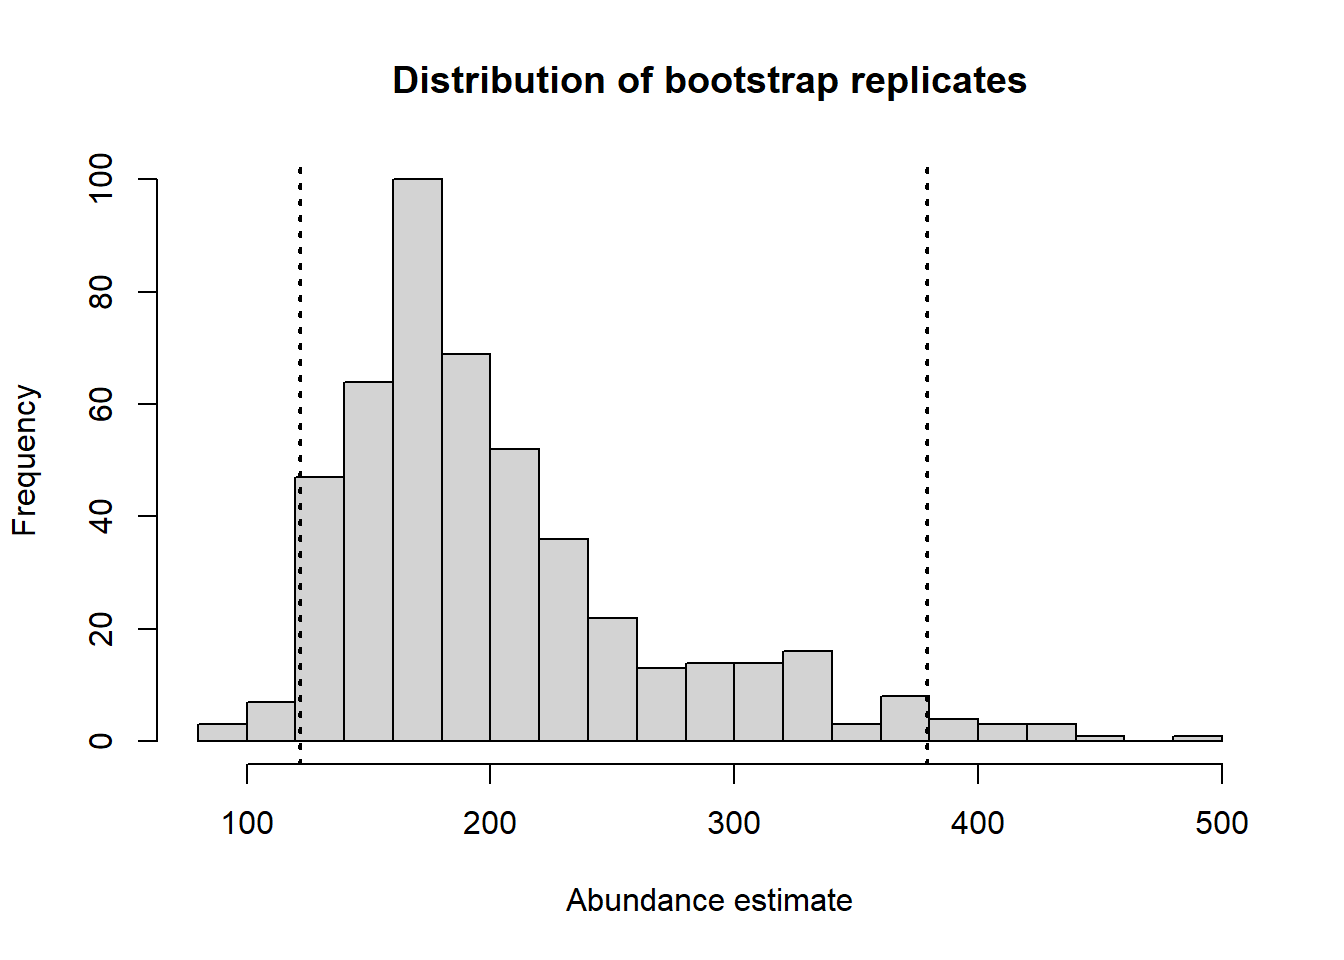
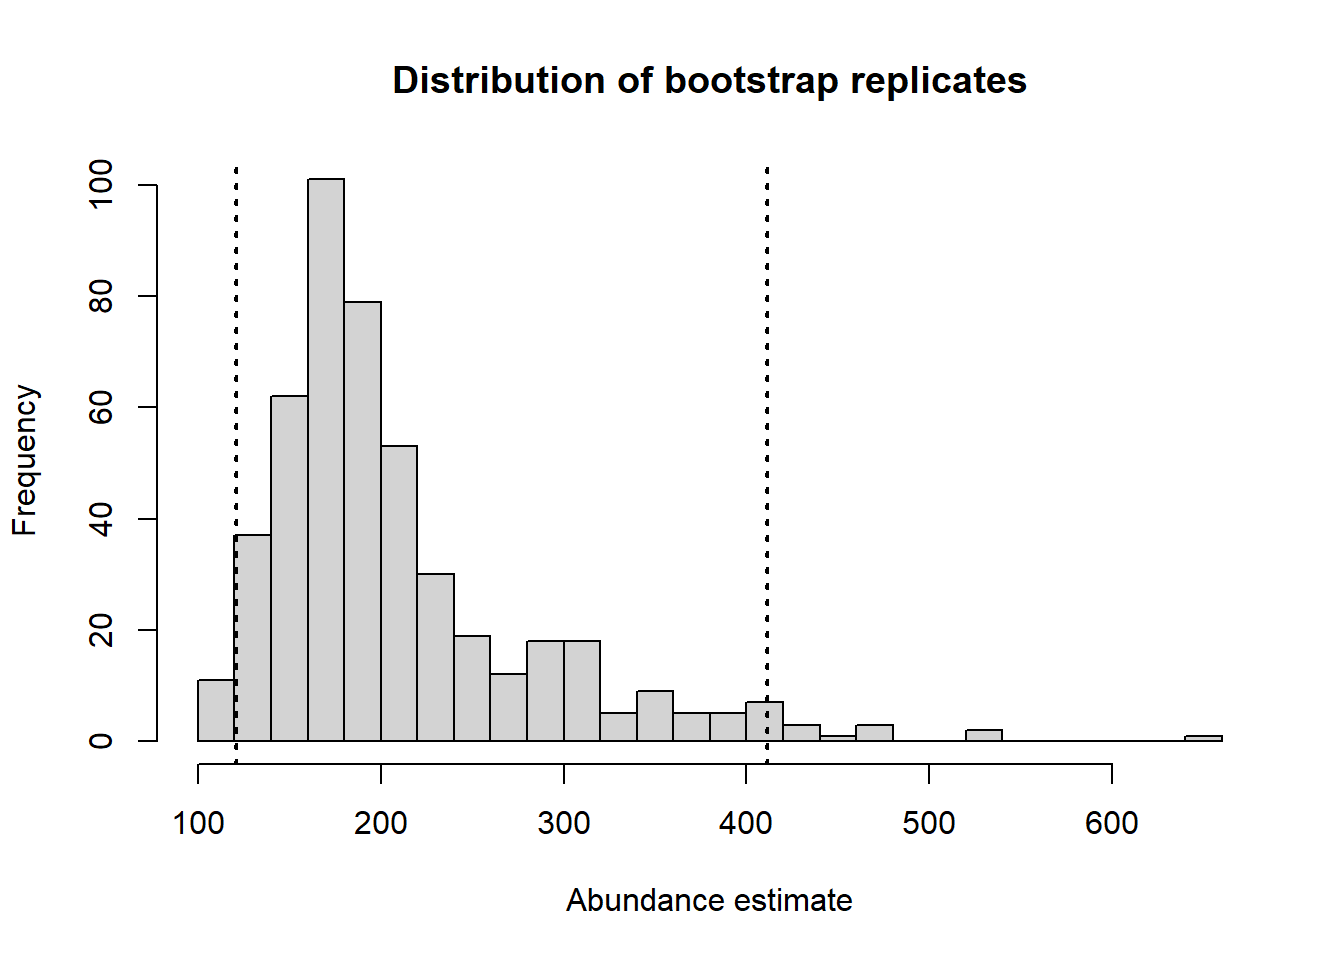
mystery 2

diff --git a/docs/announce.html b/docs/announce.html
@@ -285,7 +285,29 @@ window.Quarto = {
 
 <div class="quarto-listing quarto-listing-container-grid" id="listing-listing">
 <div class="list grid quarto-listing-cols-3">
-<div class="g-col-1" data-index="0" data-listing-date-sort="1728428400000" data-listing-file-modified-sort="1728463373469" data-listing-date-modified-sort="NaN" data-listing-reading-time-sort="2" data-listing-word-count-sort="216">
+<div class="g-col-1" data-index="0" data-listing-date-sort="1729119600000" data-listing-file-modified-sort="1729181426505" data-listing-date-modified-sort="NaN" data-listing-reading-time-sort="5" data-listing-word-count-sort="997">
+<a href="./announce/2023-01-02-mysterysoln/index.html" class="quarto-grid-link">
+<div class="quarto-grid-item card h-100 card-left">
+<p class="card-img-top">
+<img loading="lazy" src="https://images.unsplash.com/photo-1443521156453-f82c842b6e7f?ixlib=rb-4.0.3&amp;ixid=MnwxMjA3fDB8MHxjb2xsZWN0aW9uLXBhZ2V8NjB8NDcxMTQ0NHx8ZW58MHx8fHw%3D&amp;auto=format&amp;fit=crop&amp;w=500&amp;q=60" class="thumbnail-image card-img" style="height: 300px;">
+</p>
+<div class="card-body post-contents">
+<h5 class="no-anchor card-title listing-title">
+Solution to mystery analysis
+</h5>
+<div class="card-text listing-description">
+Remember, the most important aspect of this exercise is the workflow that you followed, the decisions you made and the support (evidence) used to support those decisions.
+</div>
+<div class="card-attribution card-text-small end">
+<div class="listing-date">
+Oct 17, 2024
+</div>
+</div>
+</div>
+</div>
+</a>
+</div>
+<div class="g-col-1" data-index="1" data-listing-date-sort="1728428400000" data-listing-file-modified-sort="1728463373469" data-listing-date-modified-sort="NaN" data-listing-reading-time-sort="2" data-listing-word-count-sort="216">
 <a href="./announce/2022-12-31-humpbacks/index.html" class="quarto-grid-link">
 <div class="quarto-grid-item card h-100 card-left">
 <p class="card-img-top">
@@ -307,7 +329,7 @@ Oct 9, 2024
 </div>
 </a>
 </div>
-<div class="g-col-1" data-index="1" data-listing-date-sort="1728428400000" data-listing-file-modified-sort="1728463293129" data-listing-date-modified-sort="NaN" data-listing-reading-time-sort="1" data-listing-word-count-sort="149">
+<div class="g-col-1" data-index="2" data-listing-date-sort="1728428400000" data-listing-file-modified-sort="1728463293129" data-listing-date-modified-sort="NaN" data-listing-reading-time-sort="1" data-listing-word-count-sort="149">
 <a href="./announce/2022-12-31-modelsel/index.html" class="quarto-grid-link">
 <div class="quarto-grid-item card h-100 card-left">
 <p class="card-img-top">
@@ -329,7 +351,7 @@ Oct 9, 2024
 </div>
 </a>
 </div>
-<div class="g-col-1" data-index="2" data-listing-date-sort="1728342000000" data-listing-file-modified-sort="1728375767285" data-listing-date-modified-sort="NaN" data-listing-reading-time-sort="11" data-listing-word-count-sort="2148">
+<div class="g-col-1" data-index="3" data-listing-date-sort="1728342000000" data-listing-file-modified-sort="1728375767285" data-listing-date-modified-sort="NaN" data-listing-reading-time-sort="11" data-listing-word-count-sort="2148">
 <a href="./announce/2023-07-12-adjtermsplot/index.html" class="quarto-grid-link">
 <div class="quarto-grid-item card h-100 card-left">
 <p class="card-img-top">
@@ -351,7 +373,7 @@ Oct 8, 2024
 </div>
 </a>
 </div>
-<div class="g-col-1" data-index="3" data-listing-date-sort="1728342000000" data-listing-file-modified-sort="1728375711829" data-listing-date-modified-sort="NaN" data-listing-reading-time-sort="2" data-listing-word-count-sort="204">
+<div class="g-col-1" data-index="4" data-listing-date-sort="1728342000000" data-listing-file-modified-sort="1728375711829" data-listing-date-modified-sort="NaN" data-listing-reading-time-sort="2" data-listing-word-count-sort="204">
 <a href="./announce/2023-07-12-labelledoutput/index.html" class="quarto-grid-link">
 <div class="quarto-grid-item card h-100 card-left">
 <p class="card-img-top">
@@ -373,7 +395,7 @@ Oct 8, 2024
 </div>
 </a>
 </div>
-<div class="g-col-1" data-index="4" data-listing-date-sort="1727650800000" data-listing-file-modified-sort="1727612968164" data-listing-date-modified-sort="NaN" data-listing-reading-time-sort="1" data-listing-word-count-sort="68">
+<div class="g-col-1" data-index="5" data-listing-date-sort="1727650800000" data-listing-file-modified-sort="1727612968164" data-listing-date-modified-sort="NaN" data-listing-reading-time-sort="1" data-listing-word-count-sort="68">
 <a href="./announce/2022-11-30-announce1/index.html" class="quarto-grid-link">
 <div class="quarto-grid-item card h-100 card-left">
 <p class="card-img-top">
@@ -395,7 +417,7 @@ Sep 30, 2024
 </div>
 </a>
 </div>
-<div class="g-col-1" data-index="5" data-listing-date-sort="1727650800000" data-listing-file-modified-sort="1727613065939" data-listing-date-modified-sort="NaN" data-listing-reading-time-sort="2" data-listing-word-count-sort="339">
+<div class="g-col-1" data-index="6" data-listing-date-sort="1727650800000" data-listing-file-modified-sort="1727613065939" data-listing-date-modified-sort="NaN" data-listing-reading-time-sort="2" data-listing-word-count-sort="339">
 <a href="./announce/2022-12-29-quarto/index.html" class="quarto-grid-link">
 <div class="quarto-grid-item card h-100 card-left">
 <p class="card-img-top">

diff --git a/docs/announce/2023-01-02-mysterysoln/index.html b/docs/announce/2023-01-02-mysterysoln/index.html
@@ -120,7 +120,6 @@ pre > code.sourceCode > span > a:first-child::before { text-decoration: underlin
     })(window, document, "clarity", "script", "lk4dxekwqr");
 
 </script>
-<meta name="quarto:status" content="draft">
 
   <script src="https://cdnjs.cloudflare.com/polyfill/v3/polyfill.min.js?features=es6"></script>
   <script src="https://cdn.jsdelivr.net/npm/mathjax@3/es5/tex-chtml-full.js" type="text/javascript"></script>
@@ -159,7 +158,7 @@ window.Quarto = {
 <body class="nav-fixed">
 
 <div id="quarto-search-results"></div>
-  <header id="quarto-header" class="headroom fixed-top quarto-banner"><div id="quarto-draft-alert" class="alert alert-warning"><i class="bi bi-pencil-square"></i>Draft</div>
+  <header id="quarto-header" class="headroom fixed-top quarto-banner">
     <nav class="navbar navbar-expand-lg " data-bs-theme="dark">
       <div class="navbar-container container-fluid">
       <div class="navbar-brand-container mx-auto">
@@ -713,7 +712,7 @@ N in covered region 70.5283160 13.91222961 0.1972574</code></pre>
 </div>
 </div>
 </div>
-<p>Confidence interval bounds from bootstrap are (122, 379), somewhat wider than the analytical confidence interval bounds specified above.</p>
+<p>Confidence interval bounds from bootstrap are (121, 411), somewhat wider than the analytical confidence interval bounds specified above.</p>
 </section>
 <section id="closest-aic-score-competitor-hazard-rate-with-sex-covariate" class="level2">
 <h2 class="anchored" data-anchor-id="closest-aic-score-competitor-hazard-rate-with-sex-covariate">Closest AIC score competitor, Hazard rate with sex covariate</h2>
